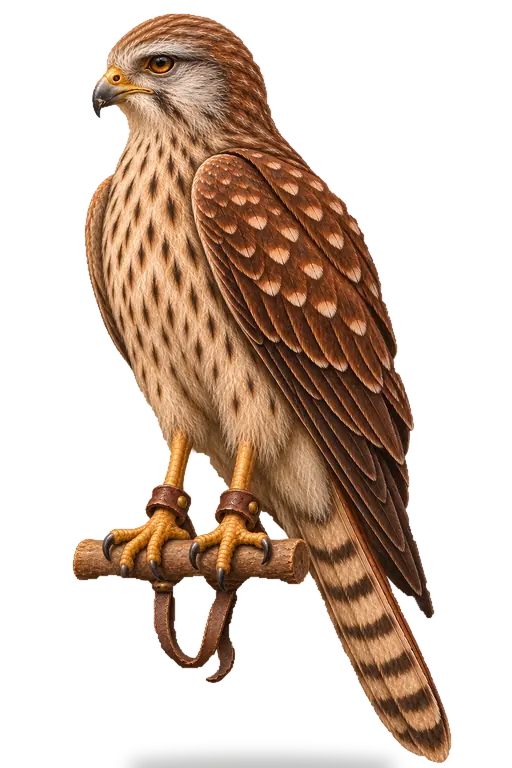
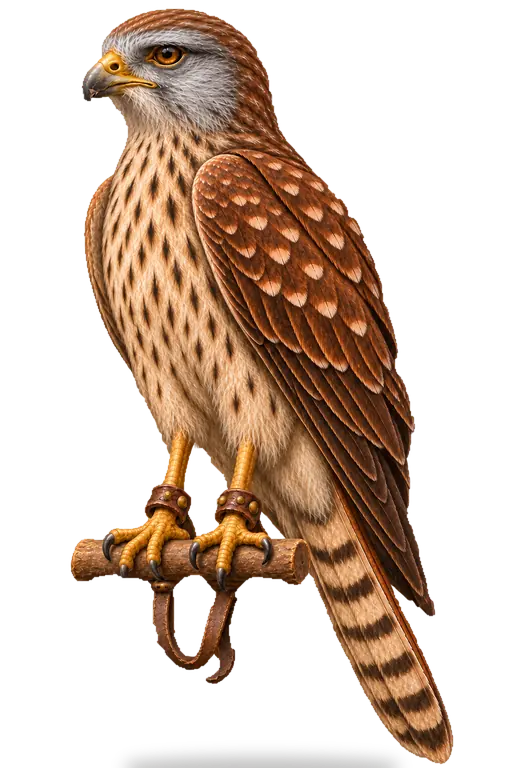
Mazlíčci: honicí pes, medvěd 0–3, sokol-3 opraven
Claude-Session: https://claude.ai/code/session_01Q25kmyig7a1XRMm7BRupgY

Changed region(s): [[0.125, 0.0, 0.9062, 1.0], [0.2812, 0.75, 0.4688, 0.9062], [0.4062, 0.7812, 0.4688, 0.8125]]

diff --git a/index.html b/index.html
@@ -34,7 +34,7 @@ figcaption{font-size:12px;padding:5px 8px;opacity:.75}
 #lb .tools button{font:inherit;font-size:14px;padding:6px 12px;border-radius:6px;border:1px solid #8a6a3a;background:linear-gradient(#f3e3bf,#d9bf8a);color:#2b1d12;cursor:pointer}
 </style></head><body><header><h1>Královské stezky – hotová grafika<span class="count" id="tot"></span></h1><nav id="nav"></nav></header>
 <div id="g" class="grid"></div><div id="lb"><button class="nav p">‹</button><div class="box"><img id="lbi"><div class="ov night"></div><canvas id="fx"></canvas><div class="ov vig"></div></div><div class="cap" id="lbc"></div><div class="tools" id="tools"><button data-w="eve">🌙 Večer</button><button data-w="rain">🌧 Déšť</button><button data-w="snow">❄ Sníh</button></div><button class="nav n">›</button></div>
-<script>const D=[{"t": "Město", "d": "img", "f": ["mesto-apatykar.webp", "mesto-banka.webp", "mesto-brana.webp", "mesto-chram.webp", "mesto-dum.webp", "mesto-hostinec.webp", "mesto-kolbiste.webp", "mesto-kovar.webp", "mesto-krejci.webp", "mesto-lazebnik.webp", "mesto-mapa.webp", "mesto-paserak.webp", "mesto-pisar.webp", "mesto-pokoj.webp", "mesto-radnice.webp", "mesto-strelmistr.webp", "mesto-trziste.webp", "mesto-vetesnik.webp", "mesto-zbrojir.webp", "mesto-zverinec.webp"]}, {"t": "Mapy oblastí", "d": "img", "f": ["mapa-kanek.webp", "mapa-lezeni.webp", "mapa-malesov.webp", "mapa-rataje.webp", "mapa-sedlec.webp"]}, {"t": "Výpravy", "d": "img/vypravy", "f": ["kanek-01.webp", "kanek-02.webp", "kanek-03.webp", "kanek-04.webp", "kanek-05.webp", "kanek-06.webp", "kanek-07.webp", "kanek-08.webp", "kanek-09.webp", "kanek-10.webp", "kanek-11.webp", "kanek-12.webp", "lezeni-01.webp", "lezeni-02.webp", "lezeni-03.webp", "lezeni-04.webp", "lezeni-05.webp", "lezeni-06.webp", "lezeni-07.webp", "lezeni-08.webp", "lezeni-09.webp", "lezeni-10.webp", "lezeni-11.webp", "lezeni-12.webp", "malesov-01.webp", "malesov-02.webp", "malesov-03.webp", "malesov-04.webp", "malesov-05.webp", "malesov-06.webp", "malesov-07.webp", "malesov-08.webp", "malesov-09.webp", "malesov-10.webp", "malesov-11.webp", "malesov-12.webp", "rataje-01.webp", "rataje-02.webp", "rataje-03.webp", "rataje-04.webp", "rataje-05.webp", "rataje-06.webp", "rataje-07.webp", "rataje-08.webp", "rataje-09.webp", "rataje-10.webp", "rataje-11.webp", "rataje-12.webp", "rataje-13.webp", "rataje-14.webp", "sedlec-01.webp", "sedlec-02.webp", "sedlec-03.webp", "sedlec-04.webp", "sedlec-05.webp", "sedlec-06.webp", "sedlec-07.webp", "sedlec-08.webp", "sedlec-09.webp", "sedlec-10.webp", "sedlec-11.webp", "sedlec-12.webp", "sedlec-13.webp", "sedlec-14.webp", "sedlec-15.webp", "sedlec-16.webp", "sedlec-17.webp", "sedlec-18.webp", "sedlec-19.webp", "sedlec-20.webp", "sedlec-21.webp", "sedlec-22.webp", "sedlec-23.webp", "sedlec-24.webp", "sedlec-25.webp", "sedlec-26.webp", "sedlec-27.webp", "sedlec-28.webp", "sedlec-29.webp", "sedlec-30.webp", "sedlec-31.webp", "sedlec-32.webp", "sedlec-33.webp", "sedlec-34.webp"]}, {"t": "Příběhy", "d": "img/pribehy", "f": ["pribeh-finale.webp", "pribeh-klaster.webp", "pribeh-kostelik.webp", "pribeh-lavka.webp", "pribeh-lis.webp", "pribeh-milir.webp", "pribeh-mlyn.webp", "pribeh-ostruvek.webp", "pribeh-prevoz.webp", "pribeh-sudy.webp", "pribeh-tabor.webp", "pribeh-ves.webp", "pribeh-vez.webp", "pribeh-vuz.webp"]}, {"t": "Situace", "d": "img/situace", "f": ["sit-boss-brana.webp", "sit-brod.webp", "sit-hadanka.webp", "sit-lov-posed.webp", "sit-lov-stopy.webp", "sit-mrtvy-poutnik.webp", "sit-navrat.webp", "sit-noc.webp", "sit-obchodnik.webp", "sit-odpocinek.webp", "sit-pad.webp", "sit-past.webp", "sit-prepadeni.webp", "sit-rybareni.webp", "sit-setkani.webp", "sit-truhla-otevrena.webp", "sit-truhla-zavrena.webp", "sit-vitezstvi.webp", "sit-zamek.webp", "sit-zaval.webp", "sit-zimni-cesta.webp", "sit-zraneny.webp"]}, {"t": "Nepřátelé", "d": "img/bytosti", "f": ["nepritel-divocak.webp", "nepritel-hlidka.webp", "nepritel-krysa.webp", "nepritel-lapka.webp", "nepritel-medved.webp", "nepritel-netopyr.webp", "nepritel-nicema.webp", "nepritel-opilec.webp", "nepritel-pacholek.webp", "nepritel-paserak.webp", "nepritel-strazny.webp", "nepritel-vlk.webp", "nepritel-zbojnik.webp", "nepritel-zbrojnos.webp", "nepritel-zlodej.webp"]}, {"t": "Bossové", "d": "img/bytosti", "f": ["boss-cerny-rytir.webp", "boss-dutohlav.webp", "boss-falesny-kat.webp", "boss-hejtman.webp", "boss-krvavy-kapitan.webp", "boss-krysar.webp", "boss-odpadly-mnich.webp", "boss-polniskudce.webp", "boss-prerostla-krysa.webp", "boss-prevoznik-kuba.webp", "boss-purkrabi-jesek.webp", "boss-rozzureny-medved.webp", "boss-vlk-zabijak.webp", "boss-vztekly-vlk.webp"]}, {"t": "Lovná zvěř", "d": "img/bytosti", "f": ["lov-divocak.webp", "lov-jelen.webp", "lov-liska.webp", "lov-medved.webp", "lov-srnec.webp", "lov-vlk.webp", "lov-zajic.webp"]}, {"t": "Mazlíčci", "d": "img/bytosti", "f": ["zvire-havran-0.webp", "zvire-havran-1.webp", "zvire-havran-2.webp", "zvire-havran-3.webp", "zvire-kocka-0.webp", "zvire-kocka-1.webp", "zvire-kocka-2.webp", "zvire-kocka-3.webp", "zvire-mys-0.webp", "zvire-mys-1.webp", "zvire-mys-2.webp", "zvire-mys-3.webp", "zvire-pes-0.webp", "zvire-pes-1.webp", "zvire-pes-2.webp", "zvire-pes-3.webp", "zvire-sokol-0.webp", "zvire-sokol-1.webp", "zvire-sokol-2.webp", "zvire-sokol-3.webp"]}];let cur=0,idx=0;
+<script>const D=[{"t": "Město", "d": "img", "f": ["mesto-apatykar.webp", "mesto-banka.webp", "mesto-brana.webp", "mesto-chram.webp", "mesto-dum.webp", "mesto-hostinec.webp", "mesto-kolbiste.webp", "mesto-kovar.webp", "mesto-krejci.webp", "mesto-lazebnik.webp", "mesto-mapa.webp", "mesto-paserak.webp", "mesto-pisar.webp", "mesto-pokoj.webp", "mesto-radnice.webp", "mesto-strelmistr.webp", "mesto-trziste.webp", "mesto-vetesnik.webp", "mesto-zbrojir.webp", "mesto-zverinec.webp"]}, {"t": "Mapy oblastí", "d": "img", "f": ["mapa-kanek.webp", "mapa-lezeni.webp", "mapa-malesov.webp", "mapa-rataje.webp", "mapa-sedlec.webp"]}, {"t": "Výpravy", "d": "img/vypravy", "f": ["kanek-01.webp", "kanek-02.webp", "kanek-03.webp", "kanek-04.webp", "kanek-05.webp", "kanek-06.webp", "kanek-07.webp", "kanek-08.webp", "kanek-09.webp", "kanek-10.webp", "kanek-11.webp", "kanek-12.webp", "lezeni-01.webp", "lezeni-02.webp", "lezeni-03.webp", "lezeni-04.webp", "lezeni-05.webp", "lezeni-06.webp", "lezeni-07.webp", "lezeni-08.webp", "lezeni-09.webp", "lezeni-10.webp", "lezeni-11.webp", "lezeni-12.webp", "malesov-01.webp", "malesov-02.webp", "malesov-03.webp", "malesov-04.webp", "malesov-05.webp", "malesov-06.webp", "malesov-07.webp", "malesov-08.webp", "malesov-09.webp", "malesov-10.webp", "malesov-11.webp", "malesov-12.webp", "rataje-01.webp", "rataje-02.webp", "rataje-03.webp", "rataje-04.webp", "rataje-05.webp", "rataje-06.webp", "rataje-07.webp", "rataje-08.webp", "rataje-09.webp", "rataje-10.webp", "rataje-11.webp", "rataje-12.webp", "rataje-13.webp", "rataje-14.webp", "sedlec-01.webp", "sedlec-02.webp", "sedlec-03.webp", "sedlec-04.webp", "sedlec-05.webp", "sedlec-06.webp", "sedlec-07.webp", "sedlec-08.webp", "sedlec-09.webp", "sedlec-10.webp", "sedlec-11.webp", "sedlec-12.webp", "sedlec-13.webp", "sedlec-14.webp", "sedlec-15.webp", "sedlec-16.webp", "sedlec-17.webp", "sedlec-18.webp", "sedlec-19.webp", "sedlec-20.webp", "sedlec-21.webp", "sedlec-22.webp", "sedlec-23.webp", "sedlec-24.webp", "sedlec-25.webp", "sedlec-26.webp", "sedlec-27.webp", "sedlec-28.webp", "sedlec-29.webp", "sedlec-30.webp", "sedlec-31.webp", "sedlec-32.webp", "sedlec-33.webp", "sedlec-34.webp"]}, {"t": "Příběhy", "d": "img/pribehy", "f": ["pribeh-finale.webp", "pribeh-klaster.webp", "pribeh-kostelik.webp", "pribeh-lavka.webp", "pribeh-lis.webp", "pribeh-milir.webp", "pribeh-mlyn.webp", "pribeh-ostruvek.webp", "pribeh-prevoz.webp", "pribeh-sudy.webp", "pribeh-tabor.webp", "pribeh-ves.webp", "pribeh-vez.webp", "pribeh-vuz.webp"]}, {"t": "Situace", "d": "img/situace", "f": ["sit-boss-brana.webp", "sit-brod.webp", "sit-hadanka.webp", "sit-lov-posed.webp", "sit-lov-stopy.webp", "sit-mrtvy-poutnik.webp", "sit-navrat.webp", "sit-noc.webp", "sit-obchodnik.webp", "sit-odpocinek.webp", "sit-pad.webp", "sit-past.webp", "sit-prepadeni.webp", "sit-rybareni.webp", "sit-setkani.webp", "sit-truhla-otevrena.webp", "sit-truhla-zavrena.webp", "sit-vitezstvi.webp", "sit-zamek.webp", "sit-zaval.webp", "sit-zimni-cesta.webp", "sit-zraneny.webp"]}, {"t": "Nepřátelé", "d": "img/bytosti", "f": ["nepritel-divocak.webp", "nepritel-hlidka.webp", "nepritel-krysa.webp", "nepritel-lapka.webp", "nepritel-medved.webp", "nepritel-netopyr.webp", "nepritel-nicema.webp", "nepritel-opilec.webp", "nepritel-pacholek.webp", "nepritel-paserak.webp", "nepritel-strazny.webp", "nepritel-vlk.webp", "nepritel-zbojnik.webp", "nepritel-zbrojnos.webp", "nepritel-zlodej.webp"]}, {"t": "Bossové", "d": "img/bytosti", "f": ["boss-cerny-rytir.webp", "boss-dutohlav.webp", "boss-falesny-kat.webp", "boss-hejtman.webp", "boss-krvavy-kapitan.webp", "boss-krysar.webp", "boss-odpadly-mnich.webp", "boss-polniskudce.webp", "boss-prerostla-krysa.webp", "boss-prevoznik-kuba.webp", "boss-purkrabi-jesek.webp", "boss-rozzureny-medved.webp", "boss-vlk-zabijak.webp", "boss-vztekly-vlk.webp"]}, {"t": "Lovná zvěř", "d": "img/bytosti", "f": ["lov-divocak.webp", "lov-jelen.webp", "lov-liska.webp", "lov-medved.webp", "lov-srnec.webp", "lov-vlk.webp", "lov-zajic.webp"]}, {"t": "Mazlíčci", "d": "img/bytosti", "f": ["zvire-havran-0.webp", "zvire-havran-1.webp", "zvire-havran-2.webp", "zvire-havran-3.webp", "zvire-honici-pes-0.webp", "zvire-honici-pes-1.webp", "zvire-honici-pes-2.webp", "zvire-honici-pes-3.webp", "zvire-kocka-0.webp", "zvire-kocka-1.webp", "zvire-kocka-2.webp", "zvire-kocka-3.webp", "zvire-medved-0.webp", "zvire-medved-1.webp", "zvire-medved-2.webp", "zvire-medved-3.webp", "zvire-mys-0.webp", "zvire-mys-1.webp", "zvire-mys-2.webp", "zvire-mys-3.webp", "zvire-pes-0.webp", "zvire-pes-1.webp", "zvire-pes-2.webp", "zvire-pes-3.webp", "zvire-sokol-0.webp", "zvire-sokol-1.webp", "zvire-sokol-2.webp", "zvire-sokol-3.webp"]}];let cur=0,idx=0;
 const nav=document.getElementById('nav'),g=document.getElementById('g'),lb=document.getElementById('lb');
 document.getElementById('tot').textContent=D.reduce((s,x)=>s+x.f.length,0)+' obrázků';
 D.forEach((s,i)=>{const b=document.createElement('button');b.textContent=s.t+' ('+s.f.length+')';b.onclick=()=>show(i);nav.appendChild(b)});
